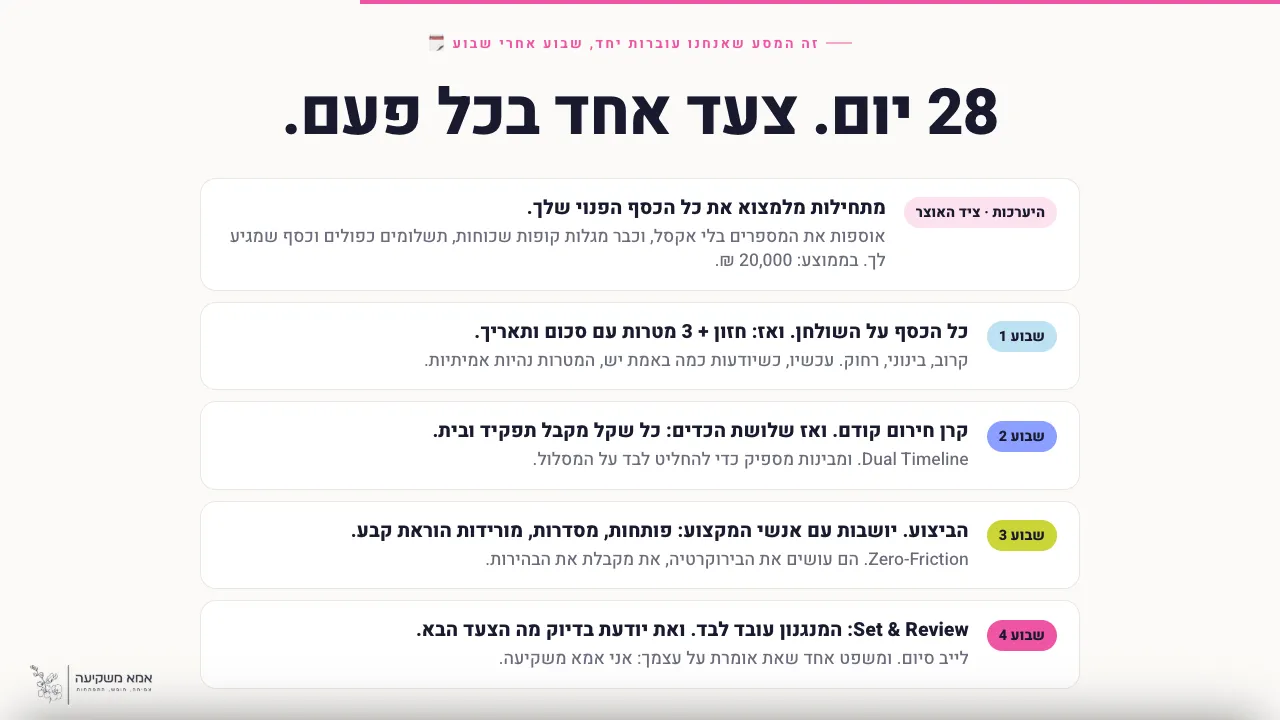
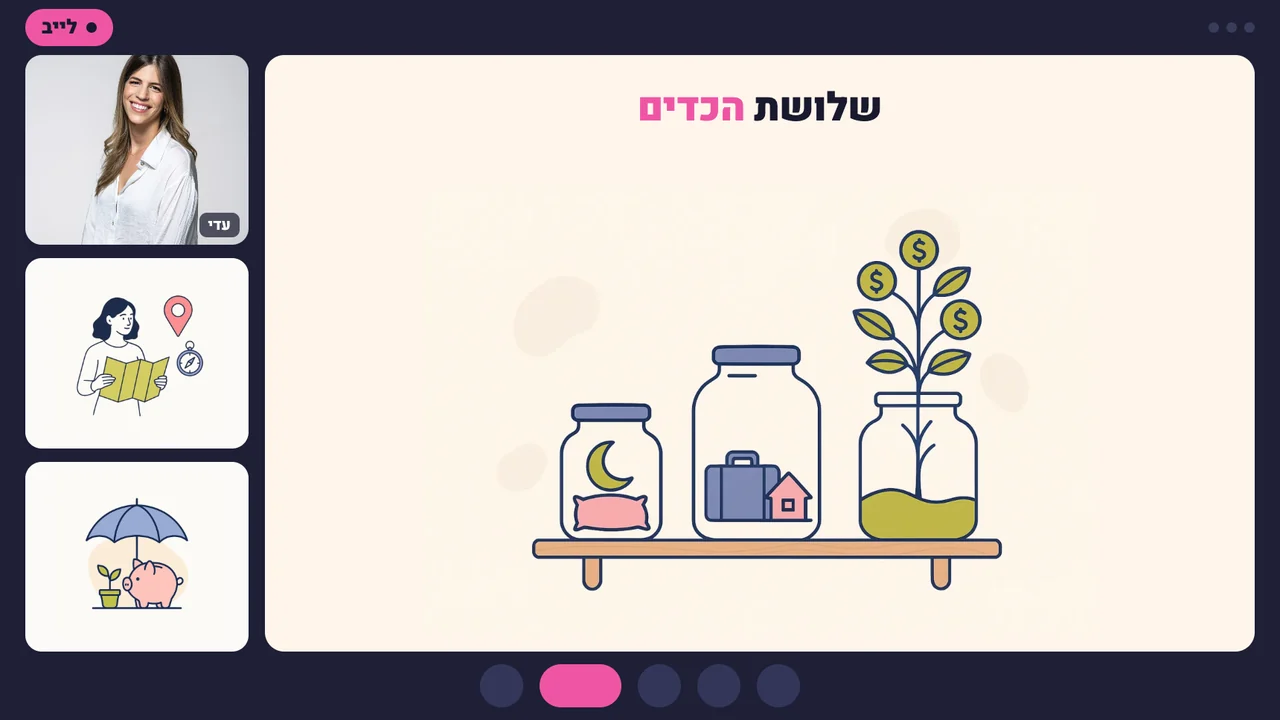
ההערות של מור וייצמן 14.9: מסך ויזואלי במחשב, בלי לוגו כפול, תמונות, ורצועות רקע
- המוקאפ (וגם המחשב בסקשן "ככה נראה הליווי"): במקום טקסט "28 יום. צעד אחד בכל פעם"
  מסך של מפגש לייב עם איור שלושת הכדים, עדי ושני איורים מהשיטה
- הלוגו בראש הדף ירד ("אמא משקיעה" הופיע פעמיים)
- תמונות מהחיים בעיגולים: אחרי "6 השנים", ליד "גיבורת העל של המשפחה", ו-2020 בסיפור
- רצועות רקע מתחלפות קרם / לבן / אפור בהיר, בשש קבוצות לפי הסיפור

diff --git a/index.html b/index.html
@@ -76,6 +76,7 @@ fbq('init','1820166155346211');fbq('track','PageView');
 <style>
 :root{
   --canvas:#FBFAF7; --white:#fff; --ink:#191A2E; --ink-soft:#6B6B7B;
+  --band-cream:#F8F1E6; --band-gray:#EEF0F6; --band-white:#FFFFFF; --soft:var(--canvas);
   --pink:#EF55A5; --pink-text:#C8317F; --pink-soft:#FCE1EF; --lime:#CCD537; --vista:#8C9EFF; --sky:#BEE0F2; --line:#ECE7DF;
   --r-card:22px; --shadow:0 18px 40px -28px rgba(25,26,46,.18);
   --col:640px;
@@ -258,7 +259,7 @@ header.site img{height:46px;width:auto}
 
 /* outcome */
 .out-list{margin:22px 0 30px}
-.flow{background:var(--canvas);border:1px solid var(--line);border-radius:var(--r-card);padding:26px 18px;max-width:420px;margin:0 auto}
+.flow{background:var(--soft);border:1px solid var(--line);border-radius:var(--r-card);padding:26px 18px;max-width:420px;margin:0 auto}
 .flow .lbl{font-size:.85rem;font-weight:700;letter-spacing:.14em;color:var(--ink-soft);margin-bottom:14px}
 .flow .top{display:inline-block;background:var(--ink);color:#fff;border-radius:100px;padding:10px 22px;font-weight:800}
 .branches{list-style:none;margin:0;padding:18px 0 0;position:relative;display:grid;gap:12px;justify-items:center}
@@ -306,7 +307,7 @@ header.site img{height:46px;width:auto}
 .vids{display:grid;grid-template-columns:repeat(2,1fr);gap:14px;margin-top:30px}
 @media(min-width:700px){.vids{grid-template-columns:repeat(3,1fr);gap:18px}}
 @media(max-width:699px){.vids .vid:last-child:nth-child(odd){grid-column:1/-1;width:calc(50% - 7px);justify-self:center}}
-.vid{background:var(--canvas);border:1px solid var(--line);border-radius:18px;padding:10px 10px 14px;display:flex;flex-direction:column;gap:10px}
+.vid{background:var(--soft);border:1px solid var(--line);border-radius:18px;padding:10px 10px 14px;display:flex;flex-direction:column;gap:10px}
 .vid .frame{position:relative;aspect-ratio:9/16;border-radius:12px;overflow:hidden;background:var(--ink)}
 .vid .frame img{width:100%;height:100%;object-fit:cover}
 .vid .frame iframe{position:absolute;inset:0;width:100%;height:100%;border:0}
@@ -317,7 +318,7 @@ header.site img{height:46px;width:auto}
 .vid blockquote b{display:block;margin-top:6px;font-size:.95rem;color:var(--ink-soft);font-weight:700}
 .wall-title{margin-top:56px}
 .wall{display:grid;gap:18px;margin-top:26px}
-.wa{background:var(--canvas);border:1px solid var(--line);border-radius:18px;overflow:hidden;margin:0}
+.wa{background:var(--soft);border:1px solid var(--line);border-radius:18px;overflow:hidden;margin:0}
 .wa img{width:100%}
 .wa figcaption{padding:12px 16px;font-size:1rem;font-weight:500}
 
@@ -363,7 +364,7 @@ html.a11y-contrast .clock div{background:#000;border-color:#fff}
 
 /* price */
 .price{background:var(--white)}
-.price-card{background:var(--canvas);border:1px solid var(--line);border-radius:28px;padding:clamp(26px,5vw,44px) clamp(18px,4vw,36px);box-shadow:var(--shadow)}
+.price-card{background:var(--soft);border:1px solid var(--line);border-radius:28px;padding:clamp(26px,5vw,44px) clamp(18px,4vw,36px);box-shadow:var(--shadow)}
 .price-card .full{color:var(--ink-soft);font-size:1rem}
 .price-card .big{font-size:clamp(2.3rem,9vw,3.4rem);font-weight:900;letter-spacing:-.02em;line-height:1.1;margin:8px 0 4px}
 .price-card .total{font-size:1.15rem;font-weight:700;margin-bottom:22px}
@@ -418,7 +419,7 @@ html.a11y-contrast .clock div{background:#000;border-color:#fff}
 
 /* calculator */
 .calc{background:var(--white)}
-.calc-card{background:var(--canvas);border:1px solid var(--line);border-radius:28px;padding:clamp(18px,4vw,30px);margin-top:28px;box-shadow:var(--shadow);text-align:right}
+.calc-card{background:var(--soft);border:1px solid var(--line);border-radius:28px;padding:clamp(18px,4vw,30px);margin-top:28px;box-shadow:var(--shadow);text-align:right}
 .calc-form{display:grid}
 .calc-form label{display:flex;align-items:center;justify-content:space-between;gap:14px;padding:14px 0;border-bottom:1px solid var(--line)}
 .calc-form label:last-child{border-bottom:0}
@@ -448,7 +449,7 @@ html.a11y-contrast .clock div{background:#000;border-color:#fff}
 
 /* faq · interactive chat */
 .faq{background:var(--white)}
-.chatbox{background:var(--canvas);border:1px solid var(--line);border-radius:24px;overflow:hidden;margin-top:28px;box-shadow:var(--shadow);text-align:center}
+.chatbox{background:var(--soft);border:1px solid var(--line);border-radius:24px;overflow:hidden;margin-top:28px;box-shadow:var(--shadow);text-align:center}
 .chat-head{display:flex;align-items:center;gap:12px;padding:14px 16px;background:var(--ink);color:#fff}
 .chat-av{width:44px;height:44px;border-radius:50%;object-fit:cover;object-position:50% 15%;margin:0;flex:0 0 44px;border:2px solid #fff}
 .chat-head b{display:block;font-size:1.05rem;line-height:1.2}
@@ -540,6 +541,19 @@ html.a11y-noanim *{animation:none!important;transition:none!important;scroll-beh
   .mockup{margin-top:20px}
   .wrap{padding:0 18px}
 }
+
+/* ===== רצועות רקע מתחלפות (מור וייצמן 14.9: "כל הדף באותו הצבע, זה קשוח") ===== */
+.band-cream{background:var(--band-cream)}
+.band-gray{background:var(--band-gray)}
+.band-white{background:var(--band-white)}
+.band-cream,.band-gray{--soft:var(--white)}
+.band-white{--soft:var(--canvas)}
+.circles{display:flex;justify-content:center;gap:clamp(10px,3vw,22px);margin:30px auto 0;flex-wrap:wrap}
+.circles img{width:clamp(96px,26vw,168px);height:clamp(96px,26vw,168px);border-radius:50%;object-fit:cover;object-position:50% 30%;border:6px solid var(--white);box-shadow:var(--shadow);max-width:100%}
+.circles img:nth-child(2){transform:translateY(14px)}
+.circles.two img{width:clamp(130px,38vw,220px);height:clamp(130px,38vw,220px)}
+.circle-one{width:min(240px,64vw);height:min(240px,64vw);border-radius:50%;overflow:hidden;margin:28px auto 6px;border:6px solid var(--white);box-shadow:var(--shadow)}
+.circle-one img{width:100%;height:100%;object-fit:cover;object-position:50% 25%}
 </style>
 </head>
 <body>
@@ -547,29 +561,24 @@ html.a11y-noanim *{animation:none!important;transition:none!important;scroll-beh
 
 <div class="topbar">כבר 4,700 אמהות הפסיקו לנחש והתחילו לבנות רשת ביטחון כלכלית למשפחה שלהן</div>
 
-<div class="wrap">
-  <header class="site">
-    <a href="#" aria-label="אמא משקיעה"><img src="assets/logo.png" alt="אמא משקיעה" width="180" height="46"></a>
-  </header>
-</div>
 
 <main id="main">
 
 <!-- ========== HERO ========== -->
-<section class="hero" id="top">
+<section class="hero band-cream" id="top">
   <div class="wrap">
     <p class="eyebrow long"><em>לאמהות שרוצות ביטחון כלכלי אמיתי אבל פוחדות לאבד את מה שחסכו…</em></p>
     <h1>איך כל אמא צעירה יכולה להפוך כמה מאות שקלים בחודש <span class="accent">להון משפחתי של מיליונים</span> ולסדר את העתיד של הילדים והמשפחה שלה</h1>
     <p class="brandline">״אמא משקיעה״</p>
     <figure class="mockup">
-      <img src="assets/mockup-livui.webp" alt="הליווי של אמא משקיעה: מפגש הלייב על המחשב, האזור האישי בטלפון, ועדי סומך" width="1600" height="1065" fetchpriority="high">
+      <img src="assets/mockup-livui.webp?v=2" alt="הליווי של אמא משקיעה: מפגש לייב על שלושת הכדים במחשב, האזור האישי בטלפון, ועדי סומך" width="1600" height="1065" fetchpriority="high">
     </figure>
     <p class="sub">תכנית של 28 ימים שעוזרת לנשים להתחיל להשקיע בשוק ההון בדרך הכי בטוחה שיש (כיום ב-2026) בלי לסכן חסכונות ובצורה אוטומטית שדורשת כמעט 0 התעסקות</p>
   </div>
 </section>
 
 <!-- ========== הסיפור ========== -->
-<section class="story">
+<section class="story band-cream">
   <div class="wrap">
     <p class="bignum">ב-6 שנים האחרונות הכנסתי כל חודש בין מאות ל-אלפי שקלים אקסטרה כל חודש בלי לעשות כלום ושום דבר…</p>
 <!-- ===== ממתין מעדי: צילומי מסך של חודשים עוקבים.
@@ -578,11 +587,16 @@ html.a11y-noanim *{animation:none!important;transition:none!important;scroll-beh
     <p class="steps"><span>זה התחיל מלמצוא כספים ״אבודים״ שסתם נזלו בלי ששמתי לב,</span><span>זה המשיך מלשים הוראות קבע קטנות של 100 פה 100 שם בהשקעות,</span><span>וזה הגיע למצב שאני מסדרת את העתיד של הבנות שלי ומראה למעל 20,000 נשים ישראליות איך לעשות את זה בעצמן…</span></p>
 
     <p class="became"><em>הפכתי לאמא שמשקיעה.</em>משקיעה את הכסף כדי להשקיע בעצמי, בבנות, בבעלי וכדי לבנות רשת בטחון מדהימה למשפחה שלי.</p>
+    <div class="circles" aria-label="מהחיים של עדי והמשפחה">
+      <img src="assets/ph-paris.webp" alt="עדי ומני בפריז, מול מגדל אייפל" width="600" height="1067" loading="lazy">
+      <img src="assets/ph-pool.webp" alt="מני והבת בבריכה" width="600" height="1067" loading="lazy">
+      <img src="assets/ph-sunset.webp" alt="עדי והבנות על החוף בשקיעה" width="600" height="1067" loading="lazy">
+    </div>
   </div>
 </section>
 
 <!-- ========== היופי בהשקעות ========== -->
-<section class="easy">
+<section class="easy band-white">
   <div class="wrap">
     <h2>היופי בתחום ההשקעות הוא שלא צריך לעשות הרבה כדי להתחיל לייצר כסף.</h2>
     <div class="reframe">
@@ -594,9 +608,10 @@ html.a11y-noanim *{animation:none!important;transition:none!important;scroll-beh
 </section>
 
 <!-- ========== מה אפשר היום ========== -->
-<section class="today">
+<section class="today band-white">
   <div class="wrap">
     <h2>היום נשים יכולות לסדר את המשפחה שלהן ואפילו לצבור הון של מאות אלפי שקלים רק מלקחת <mark>300 שקל בחודש</mark> שהן שמות על בגדים שהן לא צריכות, ולעשות הוראת קבע שלוקחת <mark>פחות מ-3 דקות</mark> לעשות.</h2>
+    <div class="circle-one"><img src="assets/ph-family.webp" alt="עדי, מני והבנות" width="900" height="1200" loading="lazy"></div>
     <p class="cape"><span>את יכולה להיות ״הגיבורת על״ של המשפחה,</span><span>זאת ששינתה את העתיד של המשפחה בלי לקחת ממה שיש היום…</span></p>
     <ul class="nots">
       <li>את לא צריכה לגעת בכסף שיש לך ולבעלך בעובר ושב…</li>
@@ -607,7 +622,7 @@ html.a11y-noanim *{animation:none!important;transition:none!important;scroll-beh
 </section>
 
 <!-- ========== חשיפת התכנית ========== -->
-<section class="introp">
+<section class="introp band-white">
   <div class="wrap">
     <p class="brandline">״אמא משקיעה״</p>
     <p class="first">יצרתי את התכנית הראשונה בישראל שעוזרת לנשים למצוא <b>כספים אבודים של בין <span dir="ltr">200-1,000</span> שקל בחודש</b> ולגלגל את הכסף הזה להון משפחתי של מיליונים…</p>
@@ -615,7 +630,7 @@ html.a11y-noanim *{animation:none!important;transition:none!important;scroll-beh
 </section>
 
 <!-- ========== מפת הדרכים ========== -->
-<section class="road" id="road">
+<section class="road band-gray" id="road">
   <div class="wrap">
     <span class="eyebrow">מה עוברות בליווי</span>
     <h2>28 יום. שלב אחרי שלב.</h2>
@@ -677,7 +692,7 @@ html.a11y-noanim *{animation:none!important;transition:none!important;scroll-beh
 </section>
 
 <!-- ========== מה לומדות בדרך ========== -->
-<section class="learn" id="learn">
+<section class="learn band-gray" id="learn">
   <div class="wrap">
     <span class="eyebrow">וכן, גם לומדות</span>
     <h2>ומה לומדות בדרך?</h2>
@@ -708,14 +723,14 @@ html.a11y-noanim *{animation:none!important;transition:none!important;scroll-beh
 </section>
 
 <!-- ========== מוקאפ הליווי ========== -->
-<section class="mock" id="mock">
+<section class="mock band-gray" id="mock">
   <div class="wrap">
     <span class="tag">הדמיה · נתונים לדוגמה</span>
     <h2>ככה נראה הליווי מבפנים</h2>
     <p class="lead">מפגש לייב בשבוע, אזור אישי שמלווה אותך כל יום, קבוצה שעונה, ופגישה אישית עם איש מקצוע.</p>
 
     <figure class="laptop">
-      <div class="lid"><img src="assets/mock-live.webp" alt="שקף ממפגש לייב: 28 יום, צעד אחד בכל פעם, השבועות של הליווי" width="1280" height="720" loading="lazy"></div>
+      <div class="lid"><img src="assets/mock-live.webp?v=2" alt="מפגש לייב: עדי מלמדת את שלושת הכדים" width="1280" height="720" loading="lazy"></div>
       <div class="base"></div>
       <figcaption>מפגש הלייב השבועי. ימי שני ב-20:00, ומוקלט למי שפספסה.</figcaption>
     </figure>
@@ -759,7 +774,7 @@ html.a11y-noanim *{animation:none!important;transition:none!important;scroll-beh
 </section>
 
 <!-- ========== מה יש לך ביד בסוף ========== -->
-<section class="outcome">
+<section class="outcome band-cream">
   <div class="wrap">
     <span class="eyebrow">ככה זה נראה ביום 28</span>
     <h2>לא תוכנית במגירה. מנגנון שעובד.</h2>
@@ -785,7 +800,7 @@ html.a11y-noanim *{animation:none!important;transition:none!important;scroll-beh
 </section>
 
 <!-- ========== עדויות ========== -->
-<section class="testi" id="testimonials">
+<section class="testi band-cream" id="testimonials">
   <div class="wrap">
     <span class="eyebrow">מהשטח</span>
     <h2>תשמעי אותן רגע. הן היו בדיוק במקום שלך.</h2>
@@ -851,7 +866,7 @@ html.a11y-noanim *{animation:none!important;transition:none!important;scroll-beh
 </section>
 
 <!-- ========== מי מאחורי הליווי ========== -->
-<section class="bio">
+<section class="bio band-white">
   <div class="wrap">
     <div class="avatar"><img src="assets/adi.webp" alt="עדי סומך" width="800" height="1200" loading="lazy"></div>
     <span class="eyebrow">נעים להכיר</span>
@@ -867,12 +882,15 @@ html.a11y-noanim *{animation:none!important;transition:none!important;scroll-beh
       <div><b>200+</b><span>תיקי השקעות שנפתחו</span></div>
       <div><b>7M+ ₪</b><span>מושקעים על ידי הקהילה</span></div>
     </div>
-    <div class="bio-photo"><img src="assets/ph-baby.webp" alt="עדי מרימה את התינוקת שלה על חוף" width="800" height="1423" loading="lazy"></div>
+    <div class="circles two">
+      <img src="assets/ph-2020.webp" alt="עדי בהיריון הראשון, 2020" width="1200" height="902" loading="lazy">
+      <img src="assets/ph-baby.webp" alt="עדי מרימה את התינוקת שלה על חוף" width="800" height="1423" loading="lazy">
+    </div>
   </div>
 </section>
 
 <!-- ========== מה כלול ========== -->
-<section class="included" id="included">
+<section class="included band-white" id="included">
   <div class="wrap">
     <span class="eyebrow">מה בדיוק כלול</span>
     <h2>מה את מקבלת בליווי</h2>
@@ -891,7 +909,7 @@ html.a11y-noanim *{animation:none!important;transition:none!important;scroll-beh
 </section>
 
 <!-- ========== בונוס · נסגר 9.9 בשעה 22:00 (ראה FIXED בסקריפט) ========== -->
-<section class="bonus" id="bonus">
+<section class="bonus band-white" id="bonus">
   <div class="wrap">
     <div class="bonus-card">
       <span class="eyebrow">בונוס · עד יום רביעי ב-22:00</span>
@@ -912,7 +930,7 @@ html.a11y-noanim *{animation:none!important;transition:none!important;scroll-beh
 </section>
 
 <!-- ========== מחיר ========== -->
-<section class="price" id="price">
+<section class="price band-white" id="price">
   <div class="wrap">
     <div class="price-card">
       <span class="eyebrow">ההשקעה שלך</span>
@@ -934,7 +952,7 @@ html.a11y-noanim *{animation:none!important;transition:none!important;scroll-beh
 </section>
 
 <!-- ========== שריון מקום · טופס ========== -->
-<section class="join" id="join">
+<section class="join band-gray" id="join">
   <div class="wrap">
     <span class="eyebrow">שריון מקום</span>
     <h2>שרייני את המקום שלך</h2>
@@ -968,7 +986,7 @@ html.a11y-noanim *{animation:none!important;transition:none!important;scroll-beh
 </section>
 
 <!-- ========== למי זה מתאים ========== -->
-<section class="fitsec">
+<section class="fitsec band-gray">
   <div class="wrap">
     <span class="eyebrow">רגע של כנות</span>
     <h2>איך תדעי אם זה הרגע המדויק בשבילך?</h2>
@@ -988,7 +1006,7 @@ html.a11y-noanim *{animation:none!important;transition:none!important;scroll-beh
 </section>
 
 <!-- ========== שאלות נפוצות · צ'אט אינטראקטיבי ========== -->
-<section class="faq" id="faq">
+<section class="faq band-gray" id="faq">
   <div class="wrap">
     <span class="eyebrow">שאלות נפוצות</span>
     <h2>יש לך שאלות? אני כאן בשבילך</h2>
